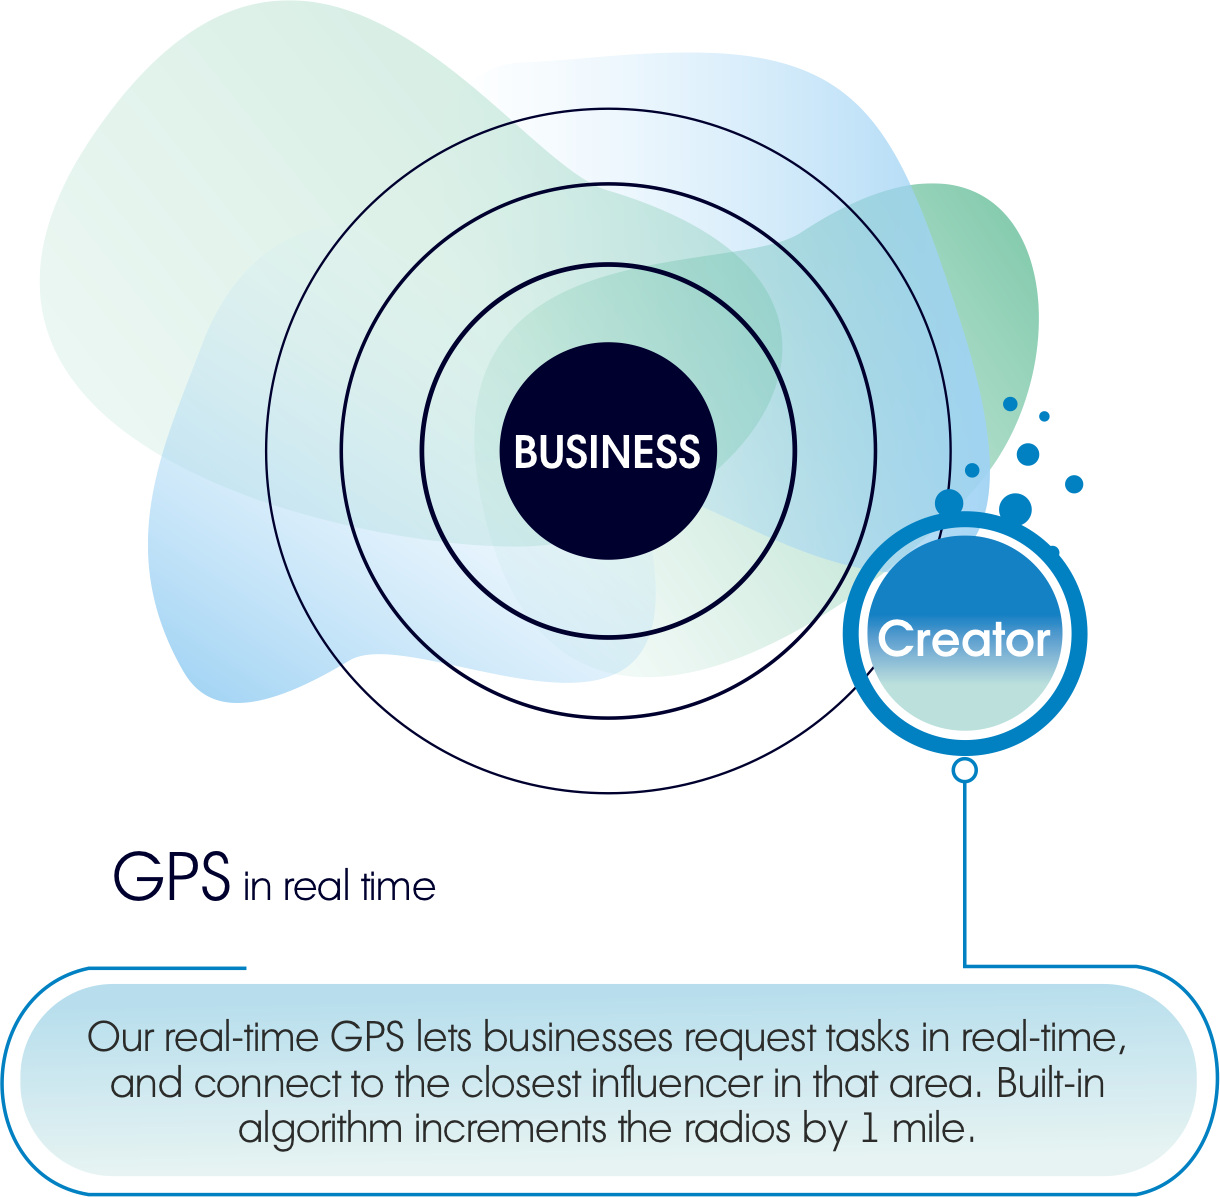
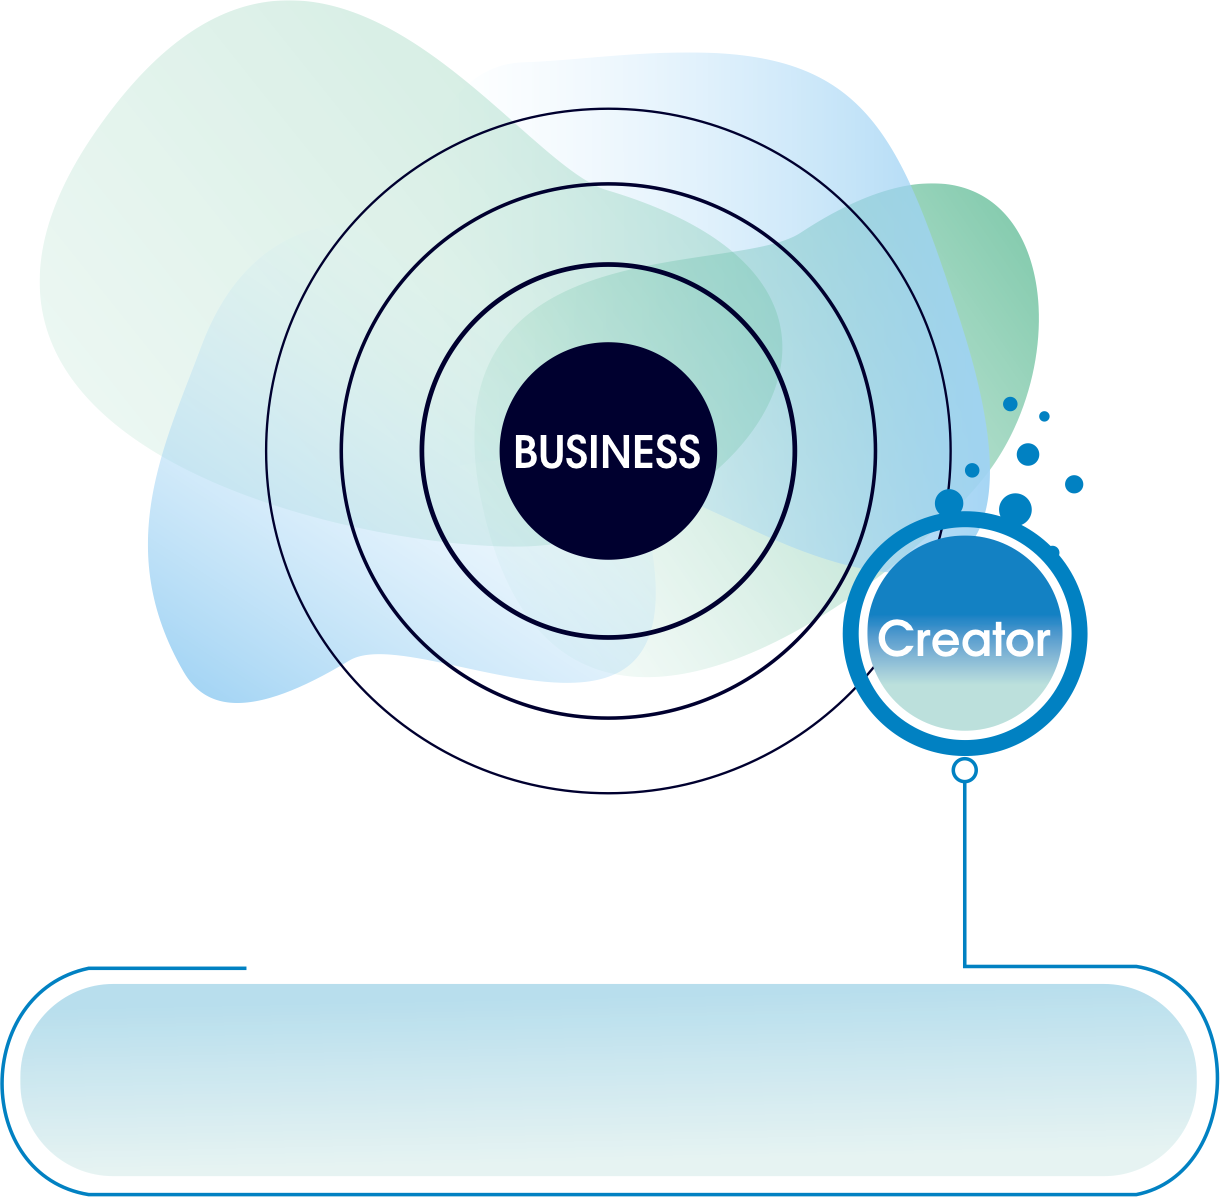
latest

Changed region(s): [[0.0934, 0.8346, 0.9033, 0.9582], [0.218, 0.7109, 0.3426, 0.7728], [0.0934, 0.7109, 0.1869, 0.7728]]

diff --git a/src/components/businessComponents/AnimationTwoFactoryFour.js b/src/components/businessComponents/AnimationTwoFactoryFour.js
@@ -43,6 +43,7 @@ import { MeshLine, MeshLineMaterial, MeshLineRaycast } from 'three.meshline'
 import {
   useHistory,
 } from "react-router-dom";
+import LocalizeComponent from '../../localize/LocalizeComponent';
 
 
 
@@ -64,6 +65,8 @@ const backgroundColor = "#ffffff";
 const orbit_control = 0;
 const ASPECT_RATIO = window.innerWidth / window.innerHeight;
 const WhiteTextColor = "#ffffff";
+const BlackTextColor = "#000000";
+const BlueTextColor = "#54b0dc";
 const LinesColor = "rgb(32, 144, 204)";//2090cc
 //const LinesColor = "rgb(3, 148, 252)";//2090cc
 // viewport
@@ -89,9 +92,9 @@ var planetAnimation = 0;
 
 const NewComponent = (props) => {
   const mount = useRef(null);
-
   const history = useHistory();
-  const [topPosition,SetTopPosition] = useState(0);
+  //xx
+  const [topPosition,SetTopPosition] = useState(3);
 
   // var props = {
   //   page:3
@@ -102,6 +105,8 @@ const NewComponent = (props) => {
     return history.push('/login'), [history];
 
   });
+
+  const font = new THREE.FontLoader().parse(fontStylesD);
 
 
 
@@ -176,12 +181,7 @@ const NewComponent = (props) => {
     var businessPosition = {x:0,y:60};
 
 
-
-
-
-
           if(props.page == 4){
-
             //Lines7Image
             const Lines7_a = new THREE.MeshBasicMaterial({
                 map:new THREE.TextureLoader().load(Lines7Image)
@@ -196,6 +196,52 @@ const NewComponent = (props) => {
             Lines7_a_mesh.scale.set(0.2,0.2,0.2);
             scene.add(Lines7_a_mesh);
             //Lines7Image
+            //text
+            const textOptionsGps = {
+              font,
+              size: 45, // font size
+              height: 5, // how much extrusion (how thick / deep are the letters)
+            };
+
+            var textMaterialGps = new THREE.MeshBasicMaterial(
+              { color: BlackTextColor }
+            );
+
+            var textGeometryGps = new THREE.TextGeometry(LocalizeComponent.gpsIn, textOptionsGps);
+            var TextmeshGps = new THREE.Mesh( textGeometryGps, textMaterialGps );
+            TextmeshGps.geometry.center();
+            TextmeshGps.position.y = -320;
+            TextmeshGps.position.x = -320;
+            Lines7_a_mesh.add(TextmeshGps);
+
+            const textOptionsGpsTwo = {
+              font,
+              size: 29, // font size
+              height: 5, // how much extrusion (how thick / deep are the letters)
+            };
+
+            var textGeometryGpsTwo = new THREE.TextGeometry(LocalizeComponent.gpsInTwo, textOptionsGpsTwo);
+            var TextmeshGpsT = new THREE.Mesh( textGeometryGpsTwo, textMaterialGps );
+            TextmeshGpsT.geometry.center();
+            TextmeshGpsT.position.y = -440;
+            TextmeshGpsT.position.x = 0;
+            Lines7_a_mesh.add(TextmeshGpsT);
+
+            var textGeometryGps3 = new THREE.TextGeometry(LocalizeComponent.gpsInThree, textOptionsGpsTwo);
+            var TextmeshGps3 = new THREE.Mesh( textGeometryGps3, textMaterialGps );
+            TextmeshGps3.geometry.center();
+            TextmeshGps3.position.y = -485;
+            TextmeshGps3.position.x = 0;
+            Lines7_a_mesh.add(TextmeshGps3);
+
+            var textGeometryGps4 = new THREE.TextGeometry(LocalizeComponent.gpsInFour, textOptionsGpsTwo);
+            var TextmeshGps4 = new THREE.Mesh( textGeometryGps4, textMaterialGps );
+            TextmeshGps4.geometry.center();
+            TextmeshGps4.position.y = -535;
+            TextmeshGps4.position.x = 0;
+            Lines7_a_mesh.add(TextmeshGps4);
+
+            //text
           //circle animation
 
           const geometryA = new THREE.CircleGeometry( 10, 32 );
@@ -206,8 +252,6 @@ const NewComponent = (props) => {
           scene.add( circleA );
 
           //text
-
-          const font = new THREE.FontLoader().parse(fontStylesD);
 
           const textOptionsA = {
             font,
@@ -265,7 +309,7 @@ const NewComponent = (props) => {
 
           //circle animation
 
-
+//xx
           var OnTopArray = [Lines8Image,Lines8_1Image,Lines8_2Image,Lines8_3Image];
           //onTop
           const Lines8_a = new THREE.MeshBasicMaterial({
@@ -281,6 +325,137 @@ const NewComponent = (props) => {
           Lines8_a_mesh.scale.set(0.27,0.27,0.27);
           scene.add(Lines8_a_mesh);
           //onTop
+          //text
+          const textOptionsAn = {
+            font,
+            size: 25, // font size
+            height: 5, // how much extrusion (how thick / deep are the letters)
+          };
+
+          var textMaterialLeft = new THREE.MeshBasicMaterial(
+            { color: BlackTextColor }
+          );
+
+          var textGeometryAn = new THREE.TextGeometry(LocalizeComponent.analyzeOne, textOptionsAn);
+          var textGeometryAn2 = new THREE.TextGeometry(LocalizeComponent.analyzeOne, textOptionsAn);
+          var textGeometryAn3 = new THREE.TextGeometry(LocalizeComponent.analyzeOne, textOptionsAn);
+          var textGeometryAn4 = new THREE.TextGeometry(LocalizeComponent.analyzeOne, textOptionsAn);
+          var textGeometryAn5 = new THREE.TextGeometry(LocalizeComponent.analyzeOne, textOptionsAn);
+          var textGeometryAn6 = new THREE.TextGeometry(LocalizeComponent.analyzeOne, textOptionsAn);
+          var TextmeshAn = new THREE.Mesh( textGeometryAn, textMaterialLeft );
+          var TextmeshAn2 = new THREE.Mesh( textGeometryAn, textMaterialLeft );
+          var TextmeshAn3 = new THREE.Mesh( textGeometryAn, textMaterialLeft );
+          var TextmeshAn4 = new THREE.Mesh( textGeometryAn, textMaterialLeft );
+          var TextmeshAn5 = new THREE.Mesh( textGeometryAn, textMaterialLeft );
+          var TextmeshAn6 = new THREE.Mesh( textGeometryAn, textMaterialLeft );
+
+          const FirstPartOfText = () => {
+            //1 part
+            textGeometryAn = new THREE.TextGeometry(LocalizeComponent.analyzeOne, textOptionsAn);
+            TextmeshAn = new THREE.Mesh( textGeometryAn, textMaterialLeft );
+            TextmeshAn.geometry.center();
+            TextmeshAn.position.y = 110;
+            Lines8_a_mesh.add(TextmeshAn);
+              //1 part
+              //2 part
+            textGeometryAn2 = new THREE.TextGeometry(LocalizeComponent.analyzeTwo, textOptionsAn);
+            TextmeshAn2 = new THREE.Mesh( textGeometryAn2, textMaterialLeft );
+            TextmeshAn2.geometry.center();
+            TextmeshAn2.position.y = 70;
+            Lines8_a_mesh.add(TextmeshAn2);
+            //2 part
+              //3 part
+            textGeometryAn3 = new THREE.TextGeometry(LocalizeComponent.analyzeThree, textOptionsAn);
+            TextmeshAn3 = new THREE.Mesh( textGeometryAn3, textMaterialLeft );
+            TextmeshAn3.geometry.center();
+            TextmeshAn3.position.y = 30;
+            Lines8_a_mesh.add(TextmeshAn3);
+            //3 part
+              //4 part
+            textGeometryAn4 = new THREE.TextGeometry(LocalizeComponent.analyzeFour, textOptionsAn);
+            TextmeshAn4 = new THREE.Mesh( textGeometryAn4, textMaterialLeft );
+            TextmeshAn4.geometry.center();
+            TextmeshAn4.position.y = -10;
+            Lines8_a_mesh.add(TextmeshAn4);
+            //4part
+            //5 part
+            textGeometryAn5 = new THREE.TextGeometry(LocalizeComponent.analyzeFive, textOptionsAn);
+            TextmeshAn5 = new THREE.Mesh( textGeometryAn5, textMaterialLeft );
+            TextmeshAn5.geometry.center();
+            TextmeshAn5.position.y = -50;
+            Lines8_a_mesh.add(TextmeshAn5);
+            //5 part
+            //6 part
+            textGeometryAn6 = new THREE.TextGeometry(LocalizeComponent.analyzeSix, textOptionsAn);
+            TextmeshAn6 = new THREE.Mesh( textGeometryAn6, textMaterialLeft );
+            TextmeshAn6.geometry.center();
+            TextmeshAn6.position.y = -90;
+            Lines8_a_mesh.add(TextmeshAn6);
+            //6 part
+          }
+
+          const SecondPartOfText = () => {
+            const textOptionsS = {
+              font,
+              size: 27, // font size
+              height: 5, // how much extrusion (how thick / deep are the letters)
+            };
+            //1 part
+            textGeometryAn = new THREE.TextGeometry(LocalizeComponent.manageAd, textOptionsS);
+            TextmeshAn = new THREE.Mesh( textGeometryAn, textMaterialLeft );
+            TextmeshAn.geometry.center();
+            TextmeshAn.position.y = 0;
+            Lines8_a_mesh.add(TextmeshAn);
+              //1 part
+          }
+
+          const ThirdPartOfText = () => {
+            const textOptionsS = {
+              font,
+              size: 27, // font size
+              height: 5, // how much extrusion (how thick / deep are the letters)
+            };
+            //1 part
+            textGeometryAn = new THREE.TextGeometry(LocalizeComponent.control, textOptionsS);
+            TextmeshAn = new THREE.Mesh( textGeometryAn, textMaterialLeft );
+            TextmeshAn.geometry.center();
+            TextmeshAn.position.y = 0;
+            Lines8_a_mesh.add(TextmeshAn);
+              //1 part
+          }
+//xx
+          const FourPartOfText = () => {
+            const textOptionsS = {
+              font,
+              size: 27, // font size
+              height: 5, // how much extrusion (how thick / deep are the letters)
+            };
+            //1 part
+            textGeometryAn = new THREE.TextGeometry(LocalizeComponent.acceptT, textOptionsS);
+            TextmeshAn = new THREE.Mesh( textGeometryAn, textMaterialLeft );
+            TextmeshAn.geometry.center();
+            TextmeshAn.position.y = 40;
+            Lines8_a_mesh.add(TextmeshAn);
+            //1 part
+            //2 part
+            textGeometryAn2 = new THREE.TextGeometry(LocalizeComponent.acceptTwo, textOptionsS);
+            TextmeshTwo = new THREE.Mesh( textGeometryAn2, textMaterialLeft );
+            TextmeshTwo.geometry.center();
+            TextmeshTwo.position.y = 0;
+            Lines8_a_mesh.add(TextmeshTwo);
+            //2 part
+            //3 part
+            textGeometryAn3 = new THREE.TextGeometry(LocalizeComponent.acceptThree, textOptionsS);
+            TextmeshThree = new THREE.Mesh( textGeometryAn3, textMaterialLeft );
+            TextmeshThree.geometry.center();
+            TextmeshThree.position.y = -40;
+            Lines8_a_mesh.add(TextmeshThree);
+            //3 part
+          }
+          var TextsArray = [FirstPartOfText(),SecondPartOfText(),ThirdPartOfText(),FourPartOfText()];
+
+
+          //text
           var currentPosition = 0;
 
           const changeNext = () => {
@@ -325,7 +500,7 @@ const NewComponent = (props) => {
 
           });
           //onTopLeft
-          //xx
+
 
           //onTopRight
           const onTopRight_a = new THREE.MeshBasicMaterial({
@@ -792,7 +967,7 @@ function animate() {
 
 
 	renderer.setScissorTest( false );
-//xx
+
   //console.log(matLins[0]);
 
 

diff --git a/src/localize/LocalizeComponent.js b/src/localize/LocalizeComponent.js
@@ -91,7 +91,7 @@ let strings = new LocalizedStrings({
    Creator:"Creator",
    Business:"Business",
    Blogger:"BLOGERS",
-   echohub_title:"is a new, effective way of spreading information through a network of pooled bloggers",
+   echohub_title:"it is a software tool for spreading video information through a unlimited network of bloggers",
    All_rights_reserved:"All rights reserved",
    Follow_Twitter:"Follow us on Twitter",
    Follow_Youtube:"Follow us on Youtube",
@@ -154,6 +154,21 @@ let strings = new LocalizedStrings({
    viewsTwo:"Social impressions",
    viewsThree:"Clicks",
    millionN:"million",
+   gpsIn:"Gps in real time",
+   gpsInTwo:"Our real-time GPS lets businesses request tasks in real-time.",
+   gpsInThree:"and connect to the closest influencer in that area. Built-in",
+   gpsInFour:"algorithm increments the radios by 1 mile",
+   analyzeOne:"Analyze the performance",
+   analyzeTwo:"(each creator will be assigned",
+   analyzeThree:"to Unique URL. You will see the",
+   analyzeFour:"amount of people clicked to",
+   analyzeFive:"that url, and see the summary",
+   analyzeSix:"report by social platforms)",
+   manageAd:"Manage ad compaign",
+   control:"Control of task progression",
+   acceptT:"Accept the visual content",
+   acceptTwo:"proposal or recommend a",
+   acceptThree:"change. Chat with influencer",
 
 
 

diff --git a/src/components/businessComponents/AnimationTwoFactoryThird.js b/src/components/businessComponents/AnimationTwoFactoryThird.js
@@ -807,9 +807,9 @@ function animate() {
     item.resolution.set( insetWidth, insetHeight ); // resolution of the inset viewport
   })
 
-  // if(planetAnimation == 1){
-  //   earthmesh.rotation.y += 0.02;
-  // }
+  if(planetAnimation == 1){
+    earthmesh.rotation.y += 0.02;
+  }
 
   if(turnFourthAnimation == 1){
     t += NearestRandomPoints(0.02);
